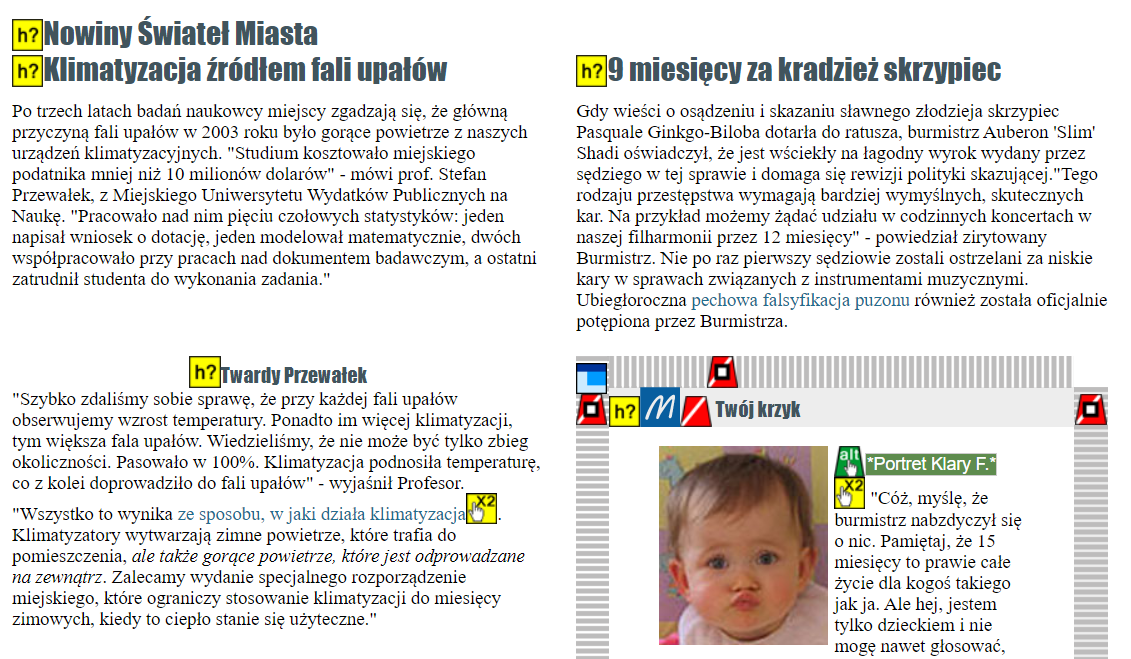
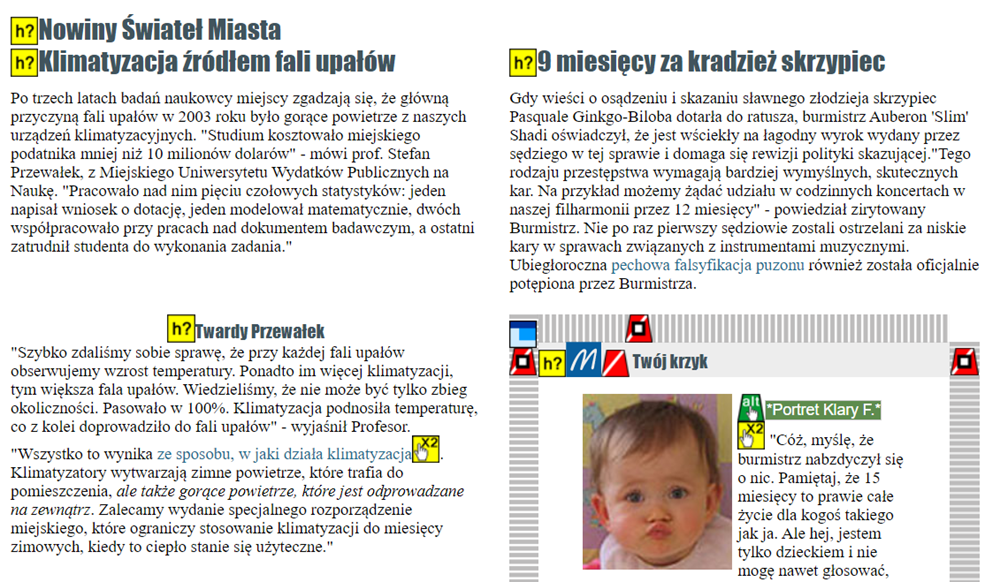
poprawione

diff --git a/docs/testy/03_P_naglowki.md b/docs/testy/03_P_naglowki.md
@@ -92,20 +92,20 @@ Aby sprawdzić nagłówki w dowolnej przeglądarce:
 
    2. Następnie za pomocą niedostępnych stronę NOWINY: https://przedipo.lepszyweb.pl/before/news.html. (W HTML Validator, przycisk „Sprawdź” może teraz powiedzieć: „Ponownie zweryfikuj”). Zauważ, że na stronie nie ma ani jednego nagłówka.
 
-![Wynik testu w Walidatorze HTML - brak konspektu nagłówków na niedostępnej stronie Nowiny]](/img/03_P_naglowki_nu-html-przed.png)
+![Wynik testu w Walidatorze HTML - brak konspektu nagłówków na niedostępnej stronie Nowiny](/img/03_P_naglowki_nu-html-przed.png)
  
 2. **Oznakowanie nagłówków**:
 
    1. Zacznij od kontroli wzrokowej, patrząc na naszym demo PrzediPO na niedostępną wersję strony NOWINY: https://przedipo.lepszyweb.pl/before/news.html. Co wygląda na nagłówki? (Nowiny Świateł Miasta, Klimatyzacja źródłem fali upałów, 9 miesięcy za kradzież skrzypiec, Twardy Przewałek, Zwrot do nadawcy, Twój krzyk, Brak mózgów utrudnia badania naukowe,)
    
-   ![Napisy na niedostępnej stronie Nowiny wyglądające jak nagłówki]](/img/03_P_naglowki_przed.png)  
+   ![Napisy na niedostępnej stronie Nowiny wyglądające jak nagłówki](/img/03_P_naglowki_przed.png)  
    2. Następnie sprawdź, jak to powinno wyglądać. Wykonać jedną z instrukcji z sekcji „Znaczniki nagłówków na stronie” powyżej na naszym demo PrzediPo na dostępnej wersji strony NOWINY: https://przedipo.lepszyweb.pl/after/news.html. Na przykłaąd skorzystaj z narzędzia WAVE. Zauważ, że obok nagłówków pojawiają się ikony nagłówków.
    
-   ![Wynik testu WAVE - oznakowane nagłówki na dostępnej stronie Nowiny]](/img/03_P_naglowki_wave-przed.png)
+   ![Wynik testu WAVE - oznakowane nagłówki na dostępnej stronie Nowiny](/img/03_P_naglowki_wave-przed.png)
  
    3. Następnie zobaczyć, jak to wygląda, gdy nagłówki nie są oznakowane. Przetestuj niedostępną wersję strony NOWINY: https://przedipo.lepszyweb.pl/before/news.html Zauważ, że teksty w kilku miejscach wyglądają na nagłówki, ale nie obok nich nie ma ikon symbolizujących nagłówki. (Są żółte ikony z „h?”, ponieważ WAVE uważa, że prawdopodobnie powinny to być nagłówki).
    
-   ![Wynik testu WAVE - brak oznakowania nagłówków na niedostępnej stronie Nowiny]](/img/03_P_naglowki_wave-po.png)
+   ![Wynik testu WAVE - brak oznakowania nagłówków na niedostępnej stronie Nowiny](/img/03_P_naglowki_wave-po.png)
  
 ### Dowiedz się więcej o nagłówkach 
 -	[Zrozumieć kryterium sukcesu 1.3.1 Informacje i relacje](https://www.w3.org/WAI/WCAG21/Understanding/info-and-relationships.html)  - artykuł w języku angielskim, skorzystaj z tłumaczenia Google.
